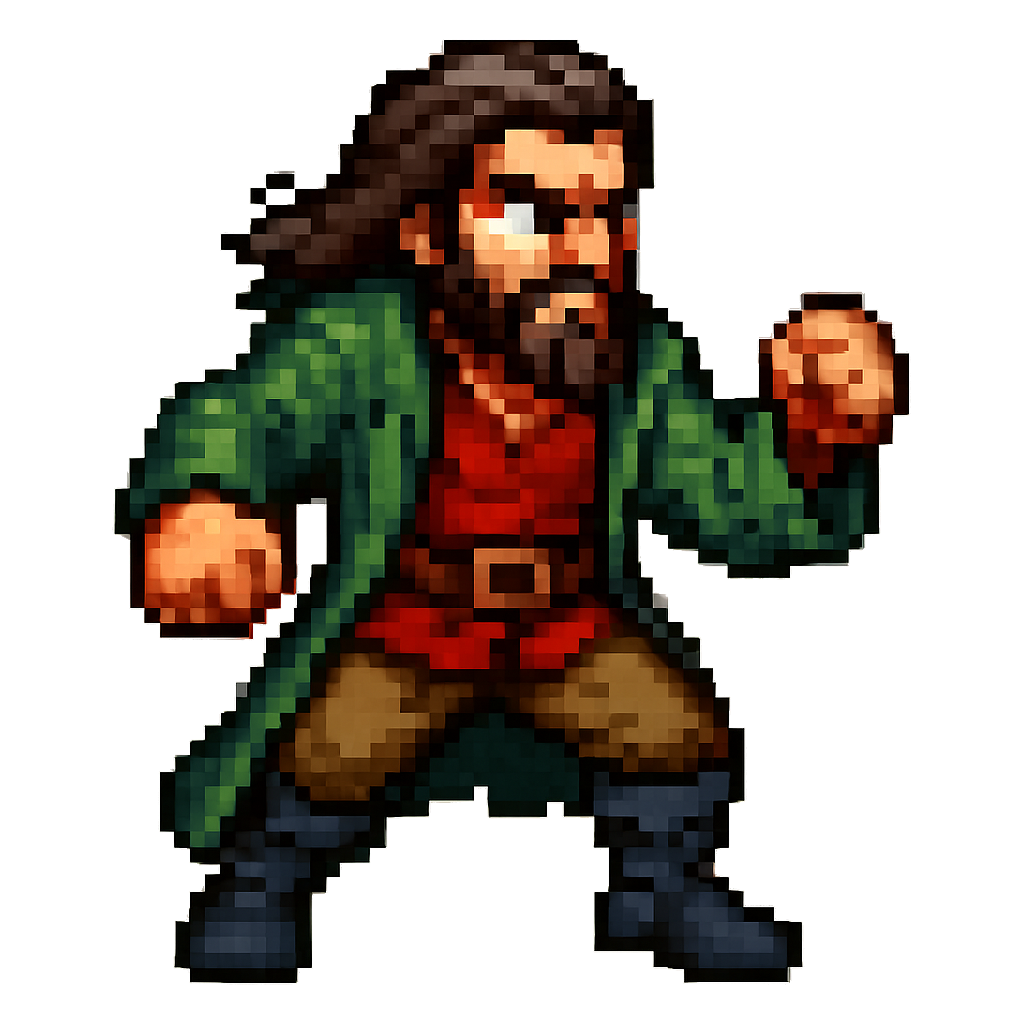
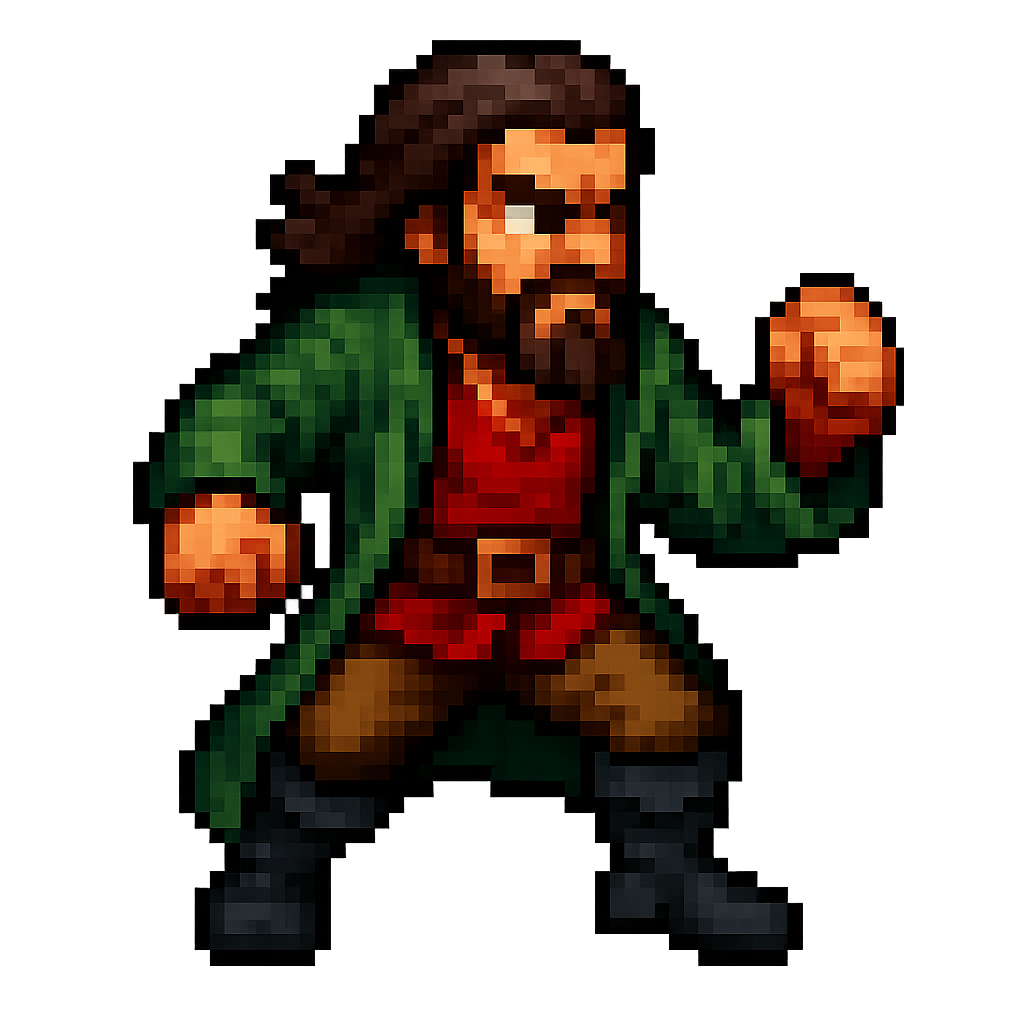
ziutek chodzi

Changed region(s): [[0.0938, 0.0312, 0.9062, 0.9688]]

diff --git a/player.py b/player.py
@@ -2,23 +2,23 @@ import pygame
 from character import Character
 class Player(Character):
     def __init__(self , x ,y):
-        super().__init__(x, y , max_health=100, speed=5, size=25 , sprite_path="./assets/ziutek.png")
+        super().__init__(x, y , max_health=100, speed=5, size=100 , sprite_path="./assets/ziutek.png")
         self.experience = 0
         self.level = 1
     def input(self):
         keys = pygame.key.get_pressed()
-        self.driection_x = 0
+        self.direction_x = 0
         self.direction_y = 0
         if keys[pygame.K_w] or keys[pygame.K_UP]:
-            self.direction_y = -1
+            self.direction_y -=1
         if keys[pygame.K_s] or keys[pygame.K_DOWN]:
-            self.direction_y = 1
+            self.direction_y += 1
         if keys[pygame.K_a] or keys[pygame.K_LEFT]:
-            self.direction_x = -1
+            self.direction_x -= 1
         if keys[pygame.K_d] or keys[pygame.K_RIGHT]:
-            self.direction_x = 1
+            self.direction_x += 1
+        self.x += self.direction_x * self.speed 
+        self.y += self.direction_y * self.speed
     def update(self):
-        self.input()
-        self.move()
-    
+        self.input()    
     

diff --git a/character.py b/character.py
@@ -1,12 +1,9 @@
 import pygame
-
 class Character:
-    def __init__(self , x ,y = 0, max_health = 100, speed = 5, size = 50 , damage = 10, range = 100, sprite_path = None):
+    def __init__(self , x ,y = 0,delta_time=0, max_health = 100, speed = 5, size = 50 , damage = 10, range = 100, sprite_path = None):
        
         self.x = x
-        self.y = y
-
-       
+        self.y = y       
         self.max_health = max_health
         self.health = max_health
         self.speed = speed
@@ -33,7 +30,7 @@ class Character:
         screen.surface.blit(self.sprite, (self.x, self.y))
 
     def move(self):
-        self.x += self.direction_x * self.speed
+        self.x += self.direction_x * self.speed 
         self.y += self.direction_y * self.speed
 
     def die(self):

diff --git a/screen.py b/screen.py
@@ -2,13 +2,16 @@ import pygame
 
 class Screen:
     def __init__(self):
+        
         self._width = 1280
         self._height = 720
         self.surface = pygame.display.set_mode((self._width, self._height))
         self.game_map = pygame.transform.scale(pygame.image.load("./assets/background.png"), (self._width, self._height))
         self.clock = pygame.time.Clock()
+        self.delta_time = self.clock.tick(60) / 1000.0 
         
     def update(self):
         pygame.display.flip()
         self.clock.tick(60)
+        
         
